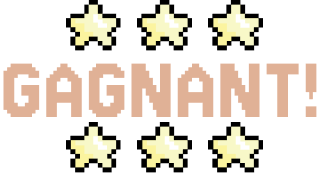
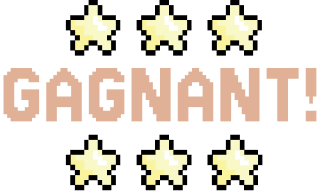
nov24

diff --git a/public_html/web3/JS/game.js b/public_html/web3/JS/game.js
@@ -1,9 +1,20 @@
 // Créer le canevas
 var canvas = document.createElement("canvas");
 var ctx = canvas.getContext("2d");
-canvas.width = document.documentElement.clientWidth;
-canvas.height = document.documentElement.clientHeight;
+// make canvas fill the window (use window.inner* for full viewport)
+canvas.width = window.innerWidth;
+canvas.height = window.innerHeight;
 document.querySelector("#gameBox").appendChild(canvas);
+
+// keep canvas size in sync with window and keep player inside bounds
+window.addEventListener('resize', function () {
+    canvas.width = window.innerWidth;
+    canvas.height = window.innerHeight;
+    if (typeof player !== 'undefined') {
+        player.x = Math.min(player.x || 0, Math.max(0, canvas.width - player.width));
+        player.y = Math.min(player.y || 0, Math.max(0, canvas.height - player.height));
+    }
+});
 
 
 //Charger les sprites
@@ -59,22 +70,22 @@ badImage.onload = function () {
 // Créer des objets de jeu globaux 
 var player = {
     speed : 5, // mouvement en pixels par tick 
-    width: 90,   // a little bigger than goodies/baddies
-    height: 90  // increased height
+    width: 110,   // a little bigger than before
+    height: 110  // increased height
 };
 
 var goodies = [ // ceci est un tableau (array)
-    { width: 44, height: 44 }, // un goody (a little bigger)
-    { width: 44, height: 44 }, // deux goodies
-    { width: 44, height: 44 }, // trois goodies
-    { width: 44, height: 44 }  // quatres goodies
+    { width: 56, height: 56 }, 
+    { width: 56, height: 56 },
+    { width: 56, height: 56 },
+    { width: 56, height: 56 }
 ];
 
 var baddies = [
   // this is an array
-  { width: 53, height: 44 }, // one baddy
-  { width: 53, height: 44 }, // two baddy
-  { width: 53, height: 44 }  // three baddy
+  { width: 66, height: 56 }, 
+  { width: 66, height: 56 }, 
+  { width: 66, height: 56 }  
 ];
 
 //New variable to check if we have lost! We set the value in init()
@@ -174,15 +185,15 @@ var main = function () {
         //Instead of winning when all goodies are grabbed
         //We Reset the goodies and...
         // use the same slightly larger size when spawning new goodies
-        goodies.push({ width: 44, height: 44, x: Math.random() * (canvas.width - 44), y: Math.random() * (canvas.height - 44) });
-        goodies.push({ width: 44, height: 44, x: Math.random() * (canvas.width - 44), y: Math.random() * (canvas.height - 44) });
-        goodies.push({ width: 44, height: 44, x: Math.random() * (canvas.width - 44), y: Math.random() * (canvas.height - 44) });
+        goodies.push({ width: 56, height: 56, x: Math.random() * (canvas.width - 56), y: Math.random() * (canvas.height - 56) });
+        goodies.push({ width: 56, height: 56, x: Math.random() * (canvas.width - 56), y: Math.random() * (canvas.height - 56) });
+        goodies.push({ width: 56, height: 56, x: Math.random() * (canvas.width - 56), y: Math.random() * (canvas.height - 56) });
 
         // remove previous baddies so old ones despawn, then spawn new baddies at random positions
         baddies.length = 0; // clear existing baddies (despawn old ones)
-        baddies.push({ width: 53, height: 44, x: Math.random() * (canvas.width - 53), y: Math.random() * (canvas.height - 44) });
-        baddies.push({ width: 53, height: 44, x: Math.random() * (canvas.width - 53), y: Math.random() * (canvas.height - 44) });
-        baddies.push({ width: 53, height: 44, x: Math.random() * (canvas.width - 53), y: Math.random() * (canvas.height - 44) });
+        baddies.push({ width: 66, height: 56, x: Math.random() * (canvas.width - 66), y: Math.random() * (canvas.height - 56) });
+        baddies.push({ width: 66, height: 56, x: Math.random() * (canvas.width - 66), y: Math.random() * (canvas.height - 56) });
+        baddies.push({ width: 66, height: 56, x: Math.random() * (canvas.width - 66), y: Math.random() * (canvas.height - 56) });
     }
     else {
         if (gameOver) {
@@ -233,8 +244,13 @@ var main = function () {
 // Dessinez le tout
 var render = function () {
     if (bgReady) {
-        ctx.fillStyle = ctx.createPattern(bgImage, 'repeat');
-        ctx.fillRect(0,0,canvas.width,canvas.height);
+        // draw background to cover the canvas without stretching (maintain aspect ratio, crop if necessary)
+        var imgW = bgImage.width, imgH = bgImage.height;
+        var scale = Math.max(canvas.width / imgW, canvas.height / imgH); // cover
+        var drawW = imgW * scale, drawH = imgH * scale;
+        var drawX = (canvas.width - drawW) / 2;
+        var drawY = (canvas.height - drawH) / 2;
+        ctx.drawImage(bgImage, drawX, drawY, drawW, drawH);
     }
     if (playerReady) {
         // draw player scaled to player.width / player.height
@@ -245,19 +261,19 @@ var render = function () {
         // draw goody scaled to its width/height
         ctx.drawImage(goodyImage, goodies[i].x, goodies[i].y, goodies[i].width, goodies[i].height);
     }
-    		//Again, same thing for baddies
+            //Again, same thing for baddies
     if (badReady) {
         for (var i in baddies) {
-			// draw baddy scaled to its width/height
-			ctx.drawImage(badImage, baddies[i].x, baddies[i].y, baddies[i].width, baddies[i].height);
+            // draw baddy scaled to its width/height
+            ctx.drawImage(badImage, baddies[i].x, baddies[i].y, baddies[i].width, baddies[i].height);
         }
     }
 
-	//Label
-	ctx.fillStyle = "rgb(250, 250, 250)";
-	ctx.font = "20pt Helvetica";
-	ctx.fillText("Level: "+lvl, 32, 32);
-	ctx.fillText("Points: "+pts, 32, 64);
+    //Label
+    ctx.fillStyle = "rgb(250, 250, 250)";
+    ctx.font = "20pt Helvetica";
+    ctx.fillText("Level: "+lvl, 32, 32);
+    ctx.fillText("Points: "+pts, 32, 64);
 };
 
 //Fonction générique pour vérifier les collisions 

diff --git a/public_html/mg1/projects/project.html b/public_html/mg1/projects/project.html
@@ -1,0 +1,36 @@
+<!DOCTYPE html>
+<html lang="en">
+<head>
+    <meta charset="UTF-8">
+    <meta name="viewport" content="width=device-width, initial-scale=1.0">
+    <title>Projects</title>
+    <link rel="stylesheet" href="../css/style.css">
+
+<link rel="preconnect" href="https://fonts.googleapis.com">
+<link rel="preconnect" href="https://fonts.gstatic.com" crossorigin>
+<link href="https://fonts.googleapis.com/css2?family=Lato:ital,wght@0,100;0,300;0,400;0,700;0,900;1,100;1,300;1,400;1,700;1,900&family=Lexend+Exa:wght@100..900&display=swap" rel="stylesheet">
+</head>
+<body>
+    <header>
+        <h1>Projects!!</h1>
+        <a href="../index.html">bye bye</a>
+    </header>
+    <article id="gallery">
+         <h3>Project 1:Tracking</h3>
+    <iframe width="560" height="315" src="https://www.youtube.com/embed/-glq64vIdis" frameborder="0" allowfullscreen></iframe>
+    <p>While learning how to do tracking on Adobe After Effects, I created my own video of me and my friends, Jasmine, Fred, and Jacob, all fooling around late at night during my summer break. I chose to do the tracking text say what I would guess was one of my friend's internal thoughts would be in that moment.</p>
+    </article>
+
+    <article id="gallery">
+        <h3>Project 2: Logo Animation</h3>
+        <iframe width="560" height="315" src="https://www.youtube.com/embed/EO-fHzEaLtk?si=H1nutrk_GI30S1lI" title="YouTube video player" frameborder="0" allow="accelerometer; autoplay; clipboard-write; encrypted-media; gyroscope; picture-in-picture; web-share" referrerpolicy="strict-origin-when-cross-origin" allowfullscreen></iframe>
+        <p>With using Adobe After Effects i made an animated logo for a cafe. This cafe is one of my favorites and i have many friends and family members that work there. i decided to show off the main things they sell, which are sandwiches and coffee.</p>
+    </article>
+
+    <article id="gallery">
+        <h3>Final LIA: Demo Reel</h3>
+        <iframe width="560" height="315" src="https://www.youtube.com/embed/xKUgO5aS2t4?si=JsTdGiAuljgsR1dm" title="YouTube video player" frameborder="0" allow="accelerometer; autoplay; clipboard-write; encrypted-media; gyroscope; picture-in-picture; web-share" referrerpolicy="strict-origin-when-cross-origin" allowfullscreen></iframe>
+        <p>For our final project in Motion Graphics 1 we had to make a demo reel with all the work we like that we have made this past year and a bit! For mine I used my ice-cream packaging, my box packaging, my photos from photography class, audio of a podcast from my sound desgin class, posters from desgin class, and photos I took from a Case Competition.</p>
+    </article>
+</body>
+</html>

diff --git a/public_html/mg1/index.html b/public_html/mg1/index.html
@@ -26,6 +26,7 @@
         <section id="classes">
              <button><a href="inspo/inspo.html">Inspo</a></button>
              <button><a href="exercises/ex.html">Exercises</a></button>
+             <button><a href="projects/project.html">Projects</a></button>
         </section>
 
 
